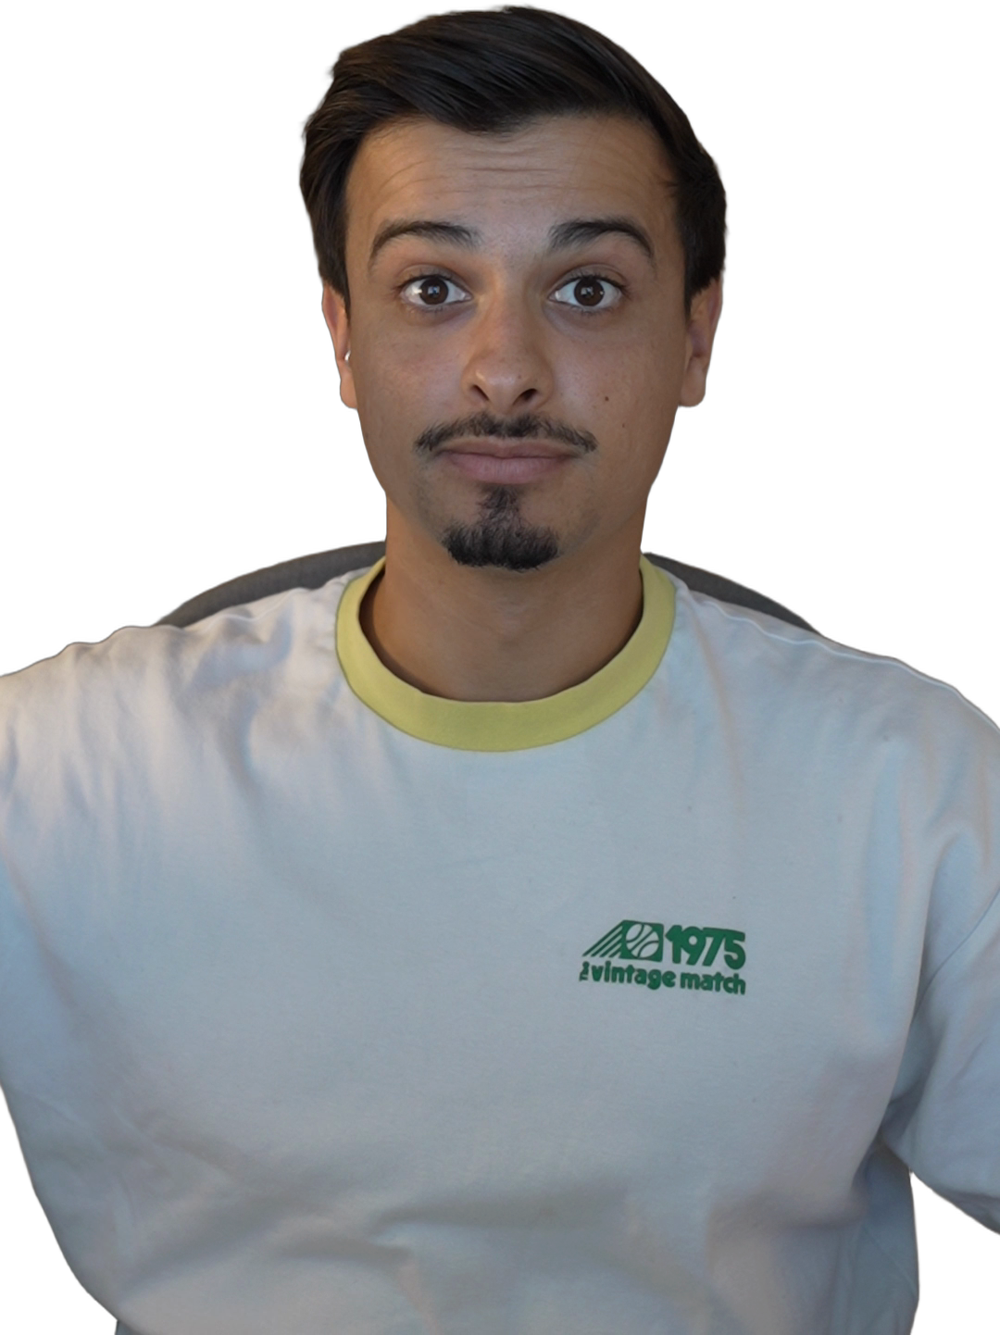
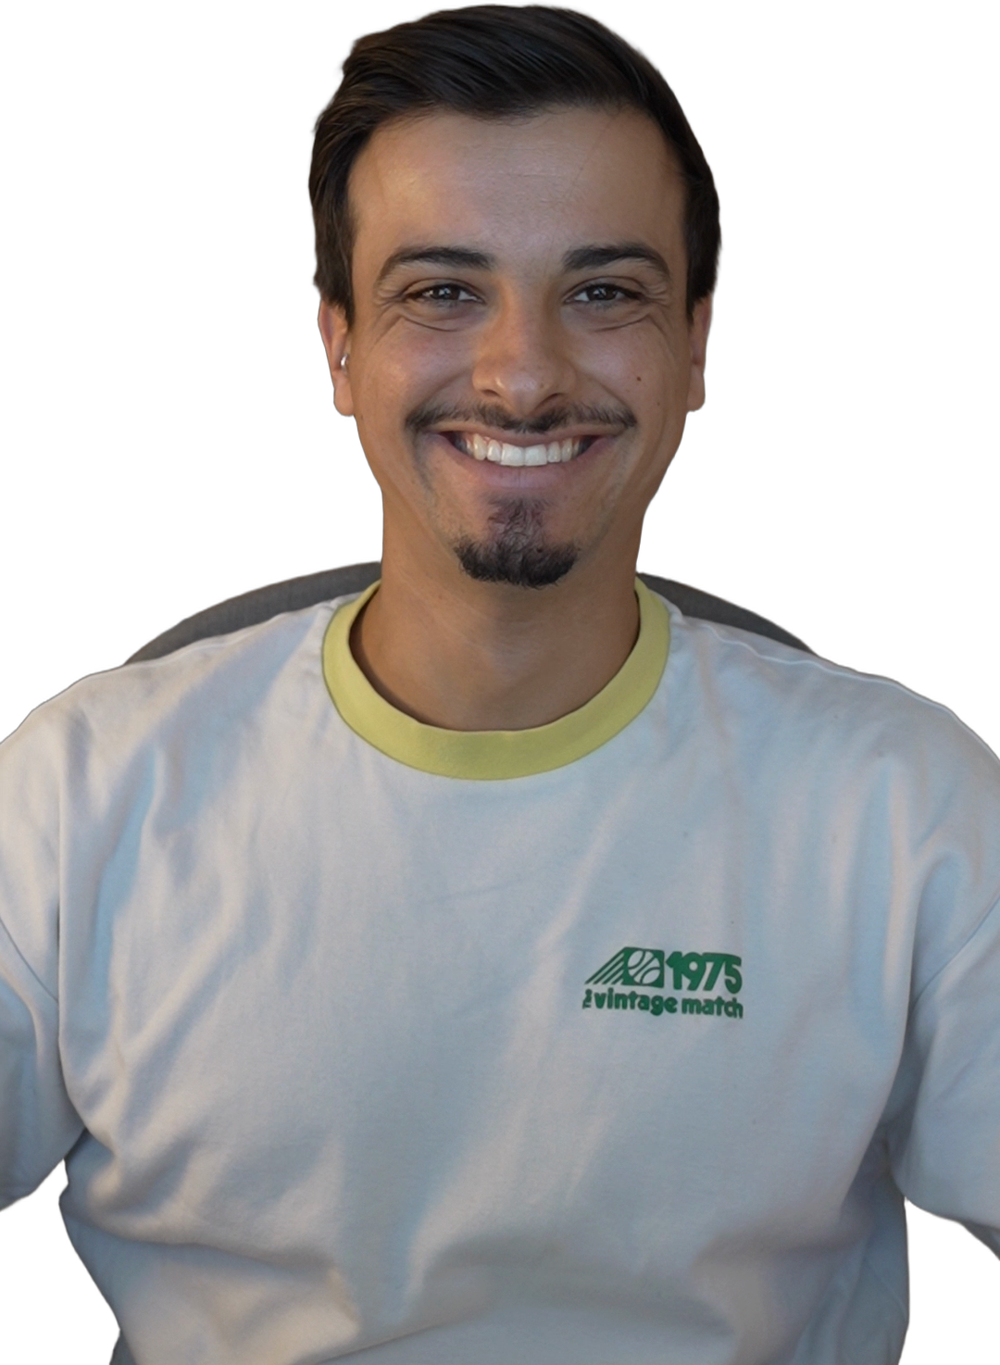
Retrato con expresion natural

diff --git a/en/index.html b/en/index.html
@@ -30,7 +30,7 @@ h1{max-width:820px;font-size:clamp(48px,6.2vw,86px);letter-spacing:-.035em;line-
 .sub{font-size:19px;max-width:62ch;margin:0 0 32px}
 .hero-note{margin-top:auto;font-family:var(--font-mono);font-size:12px;text-transform:uppercase;letter-spacing:.06em;border:var(--rule);background:var(--paper);box-shadow:var(--shadow-sm);padding:11px 14px;max-width:48ch}
 .portrait{position:relative;margin:32px 8px 32px 0;border:var(--rule);background:var(--purple);box-shadow:var(--shadow);overflow:hidden;min-height:626px}
-.portrait img{position:absolute;left:50%;bottom:0;transform:translateX(-51%);height:100%;width:auto;max-width:none}
+.portrait img{position:absolute;left:50%;bottom:0;transform:translateX(-53%);height:100%;width:auto;max-width:none}
 .portrait figcaption{position:absolute;left:0;right:0;bottom:0;background:var(--ink);color:var(--white);padding:13px 16px;font-size:11px;letter-spacing:.06em;text-transform:uppercase}
 .join{background:var(--navy);color:var(--white);border-bottom:var(--rule)}
 .join .wrap{display:grid;grid-template-columns:1fr 1.55fr;gap:48px;padding-top:34px;padding-bottom:34px}

diff --git a/es/index.html b/es/index.html
@@ -30,7 +30,7 @@ h1{max-width:820px;font-size:clamp(48px,6.2vw,86px);letter-spacing:-.035em;line-
 .sub{font-size:19px;max-width:62ch;margin:0 0 32px}
 .hero-note{margin-top:auto;font-family:var(--font-mono);font-size:12px;text-transform:uppercase;letter-spacing:.06em;border:var(--rule);background:var(--paper);box-shadow:var(--shadow-sm);padding:11px 14px;max-width:48ch}
 .portrait{position:relative;margin:32px 8px 32px 0;border:var(--rule);background:var(--purple);box-shadow:var(--shadow);overflow:hidden;min-height:626px}
-.portrait img{position:absolute;left:50%;bottom:0;transform:translateX(-51%);height:100%;width:auto;max-width:none}
+.portrait img{position:absolute;left:50%;bottom:0;transform:translateX(-53%);height:100%;width:auto;max-width:none}
 .portrait figcaption{position:absolute;left:0;right:0;bottom:0;background:var(--ink);color:var(--white);padding:13px 16px;font-size:11px;letter-spacing:.06em;text-transform:uppercase}
 .join{background:var(--navy);color:var(--white);border-bottom:var(--rule)}
 .join .wrap{display:grid;grid-template-columns:1fr 1.55fr;gap:48px;padding-top:34px;padding-bottom:34px}

diff --git a/fr/index.html b/fr/index.html
@@ -30,7 +30,7 @@ h1{max-width:820px;font-size:clamp(48px,6.2vw,86px);letter-spacing:-.035em;line-
 .sub{font-size:19px;max-width:62ch;margin:0 0 32px}
 .hero-note{margin-top:auto;font-family:var(--font-mono);font-size:12px;text-transform:uppercase;letter-spacing:.06em;border:var(--rule);background:var(--paper);box-shadow:var(--shadow-sm);padding:11px 14px;max-width:48ch}
 .portrait{position:relative;margin:32px 8px 32px 0;border:var(--rule);background:var(--purple);box-shadow:var(--shadow);overflow:hidden;min-height:626px}
-.portrait img{position:absolute;left:50%;bottom:0;transform:translateX(-51%);height:100%;width:auto;max-width:none}
+.portrait img{position:absolute;left:50%;bottom:0;transform:translateX(-53%);height:100%;width:auto;max-width:none}
 .portrait figcaption{position:absolute;left:0;right:0;bottom:0;background:var(--ink);color:var(--white);padding:13px 16px;font-size:11px;letter-spacing:.06em;text-transform:uppercase}
 .join{background:var(--navy);color:var(--white);border-bottom:var(--rule)}
 .join .wrap{display:grid;grid-template-columns:1fr 1.55fr;gap:48px;padding-top:34px;padding-bottom:34px}
